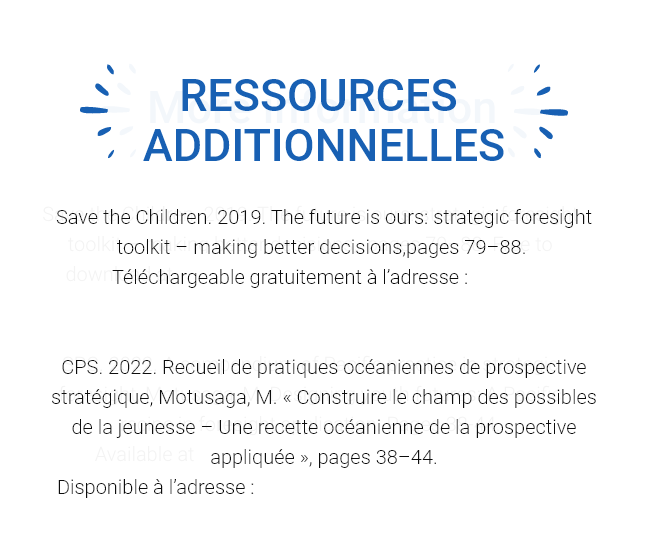
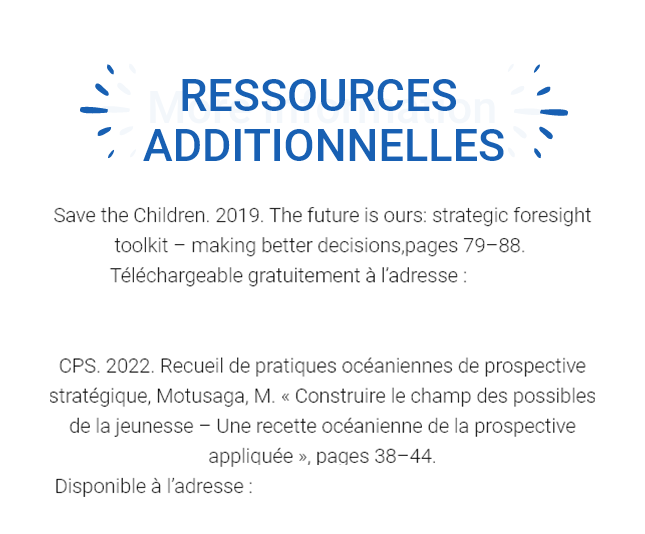
chapter 3 backcasting links

diff --git a/chap3/css/more-info-backcasting-1920-1280-768.css b/chap3/css/more-info-backcasting-1920-1280-768.css
@@ -34,7 +34,7 @@
   cursor: pointer;
   position: absolute;
   right: 15px;
-  top: 260px;
+  top: 255px;
   width: 95%;
   height: auto;
   z-index: 70;
@@ -44,7 +44,7 @@
   cursor: pointer;
   position: absolute;
   right: 15px;
-  top: 440px;
+  top: 473px;
   width: 95%;
   height: auto;
   z-index: 70;
@@ -54,8 +54,8 @@
   cursor: pointer;
   position: absolute;
   right: 75px;
-  top: 4620px;
-  width: 65%;
+  top: 4610px;
+  width: 63%;
   height: auto;
   z-index: 70;
 }
@@ -64,7 +64,7 @@
   cursor: pointer;
   position: absolute;
   right: 75px;
-  top: 4835px;
+  top: 4840px;
   width: 65%;
   height: auto;
   z-index: 70;
